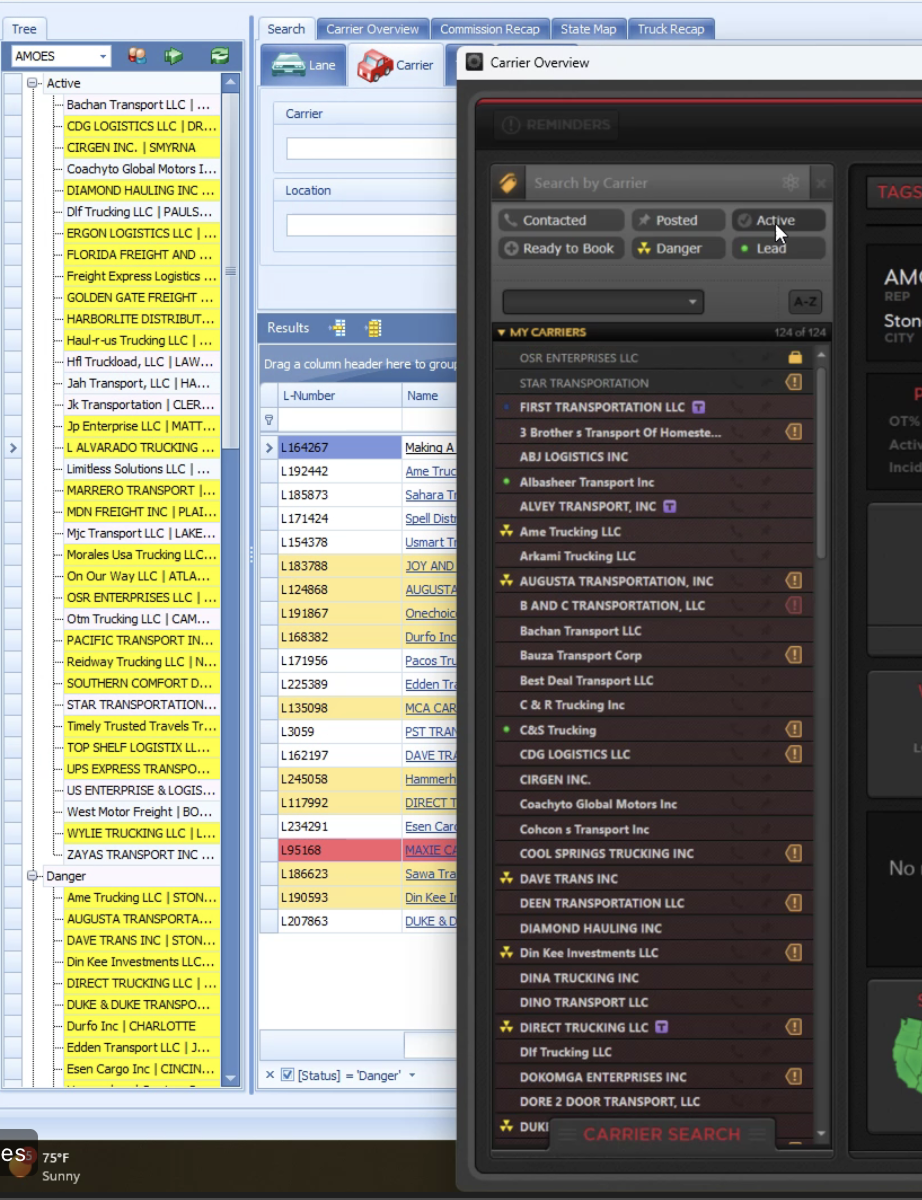
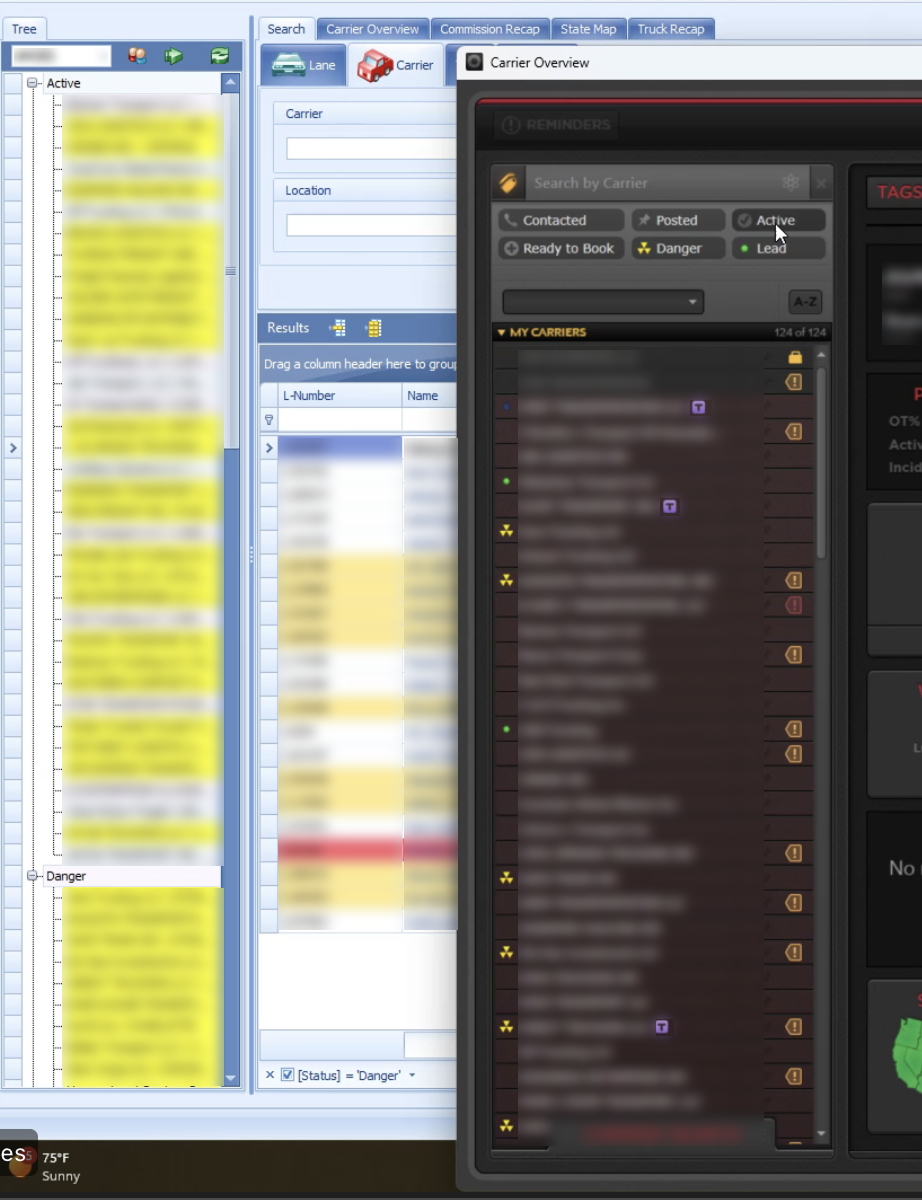
Blur carrier names in Carrier Portfolio before image, simplify hero line

diff --git a/project-echo-portfolio.html b/project-echo-portfolio.html
@@ -56,7 +56,7 @@
         <div class="header-content">
             <div class="project-category">UX Design • Enterprise Software</div>
             <h1 class="project-title">Echo Global Logistics</h1>
-            <p class="project-description">A rep-owned carrier book that shows who's safe to work, with call and email one click away.</p>
+            <p class="project-description">Giving reps one place to see the carriers they own and whether each is safe to book.</p>
 
             <div class="hero-image-container">
                 <img src="My Carriers - Rep View-Designs.png" alt="My Carriers panel in Echo Accelerator">
